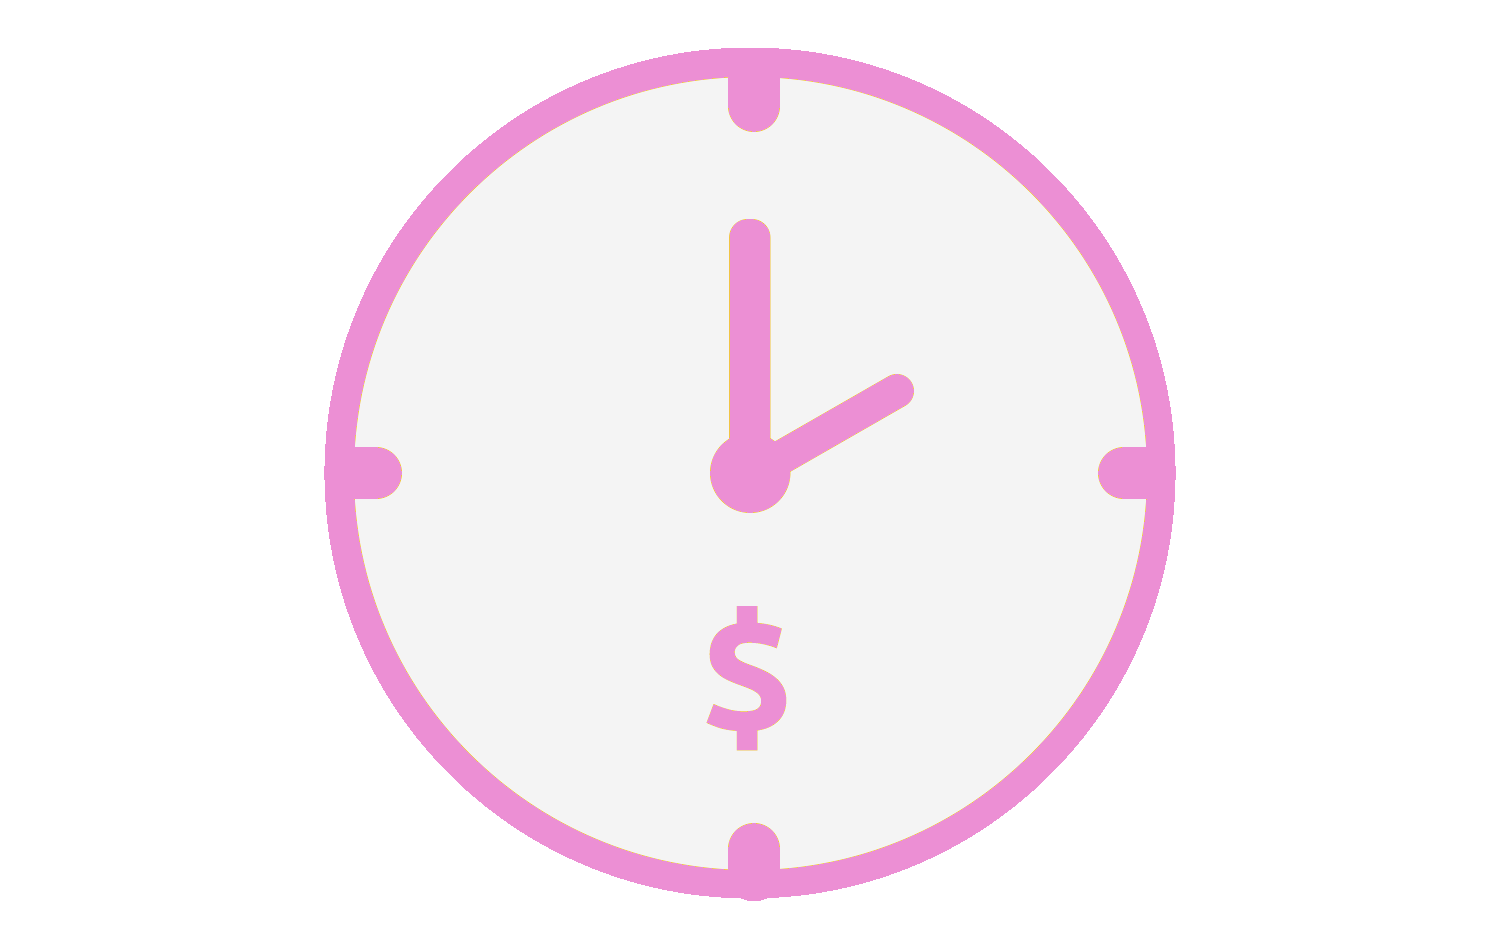
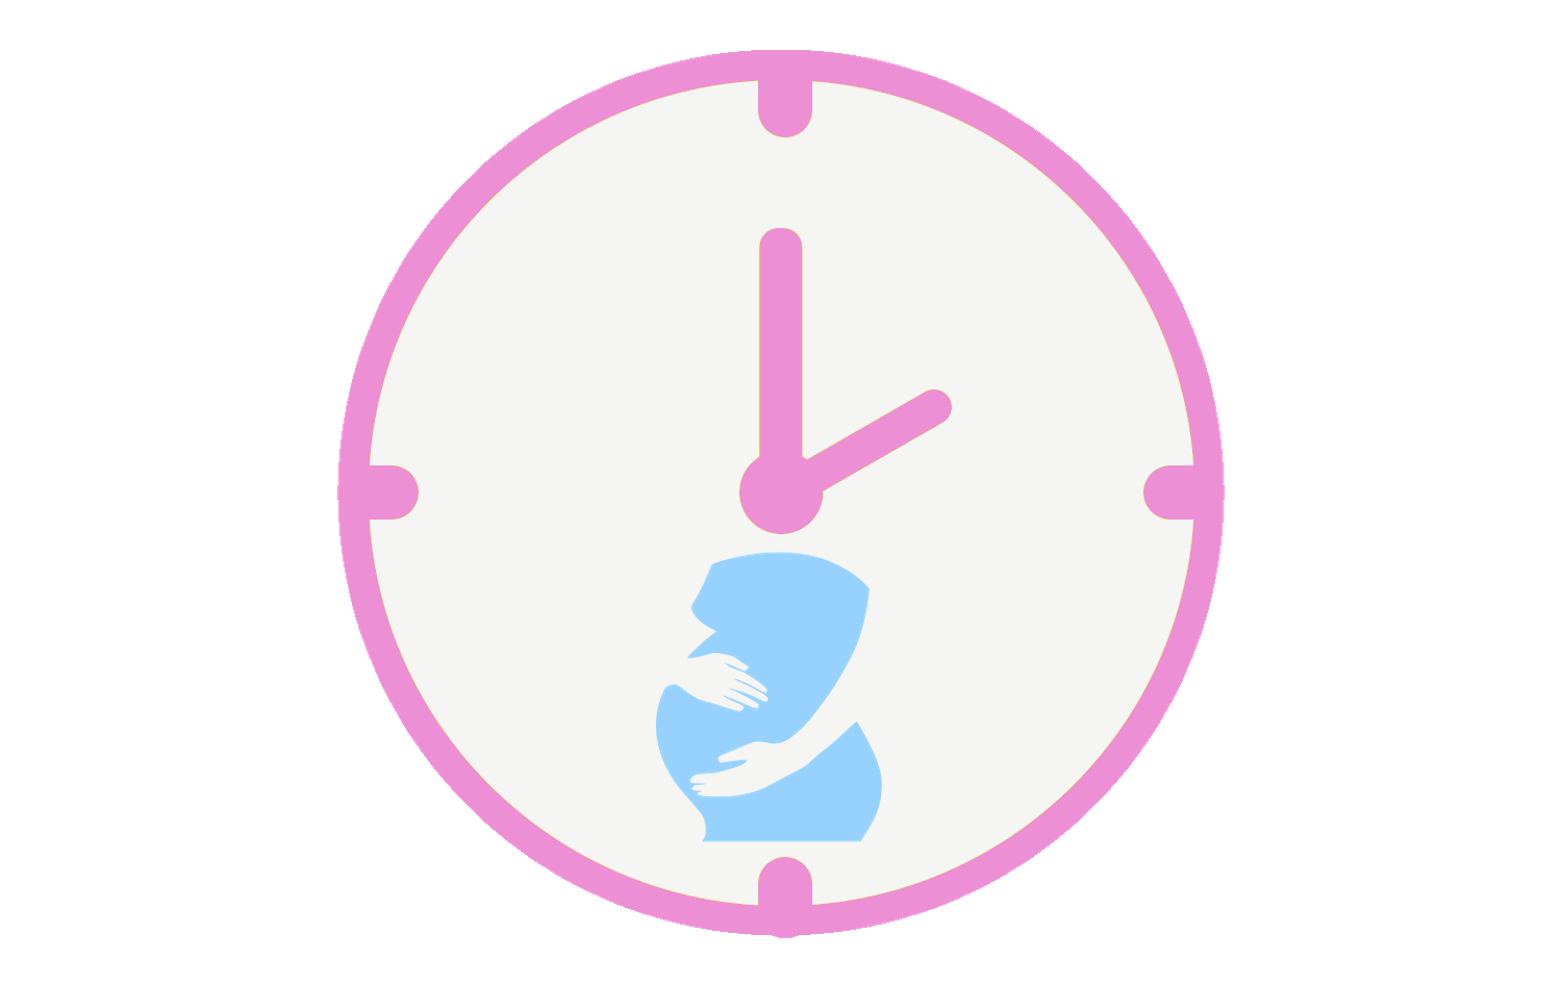
Created and update

Changed region(s): [[0.3987, 0.5518, 0.5827, 0.8584]]

diff --git a/index.html b/index.html
@@ -48,7 +48,7 @@
 							<a href="calcularIdadeGestacional.html" class="nav-link">Calcular Idade Gestacional</a>
 						</li>
 						<li class="nav-item">
-							<a href="#" class="nav-link">Benefícios</a>
+							<a href="controleGlicemico.html" class="nav-link">Controle Glicêmico</a>
 						</li>
 						<li class="nav-item">
 							<a href="#" class="btn btn-outline-light ml-4">Entrar</a>
@@ -105,12 +105,11 @@
 				</div>
 				<div class="col-md-6 d-flex">
 					<div class="align-self-center">
-						<h2>Pare de pagar Juros</h2>
+						<h2>Controle Glicêmico</h2>
 						<p>
-							Com o iMoney, você pode categorizar todos os seus lançamentos.
-							Com grafico simples, você sabe de onde vem e para onde vai o seu dinheiro
+							Durante a gestação, o controle glicêmico assume um papel crucial para a saúde da mãe e do bebê. Manter os níveis de glicose no sangue dentro dos parâmetros adequados é essencial para prevenir complicações associadas à diabetes gestacional.
 						</p>
-						<a href="" class="btn btn-primary">Veja Mais</a>
+						<a href="controleGlicemico.html" class="btn btn-primary">Calcular</a>
 					</div>
 				</div>
 			</div>
@@ -125,21 +124,23 @@
 					<img src="img/facil.png" class="img-fluid">
 					<h4>Fácil de Usar</h4>
 					<p>
-						O iMoney vai além do básico e permite que você faça controles incriveis, essenciais para suas finanças. Simples como tem que ser!
+						O Minha Gestação Meu Bebê oferece uma variedade de recursos para auxiliar nessa fase de forma fácil e descomplicada!
 					</p>
 				</div>
 				<div class="col-md-4">
 					<img src="img/economize.png" class="img-fluid">
 					<h4>Economize seu Tempo</h4>
 					<p>
-						O iMoney vai além do básico e permite que você faça controles incriveis, essenciais para suas finanças. Simples como tem que ser!
+						Economize tempo com o Minha Gestação Meu Bebê! Nossa plataforma oferece recursos que tornam tudo mais prático e eficiente para você acompanhar sua gestação e o desenvolvimento do seu bebê.
 					</p>
 				</div>
 				<div class="col-md-4">
 					<img src="img/suporte.png" class="img-fluid">
 					<h4>Suporte Amigo</h4>
 					<p>
-						O iMoney vai além do básico e permite que você faça controles incriveis, essenciais para suas finanças. Simples como tem que ser!
+						Suporte Amigo
+
+						Estamos em fase de construção e queremos oferecer a melhor experiência possível. Se tiver dúvidas sobre qualquer recurso, desejar fazer reclamações, reportar problemas ou enviar sugestões, fique à vontade para entrar em contato conosco por e-mail em leandrodepaula.ti@gmail.com. Sua opinião é muito importante para nós!
 					</p>
 				</div>
 			</div>

diff --git a/controleGlicemico.html b/controleGlicemico.html
@@ -45,10 +45,10 @@
 							<a href="index.html" class="nav-link">Home</a>
 						</li>
 						<li class="nav-item">
-							<a href="#" class="nav-link">Calcular Idade Gestacional</a>
+							<a href="/calcularIdadeGestacional.html" class="nav-link">Calcular Idade Gestacional</a>
 						</li>
 						<li class="nav-item">
-							<a href="controleGlicemico.html" class="nav-link">Controle Glicêmico</a>
+							<a href="#" class="nav-link">Controle Glicêmico</a>
 						</li>
 						<li class="nav-item">
 							<a href="#" class="btn btn-outline-light ml-4">Entrar</a>
@@ -66,14 +66,10 @@
 			<div class="row">
 				<div class="col-md-6 d-flex">
 					<div class="align-self-center">
-						<h2>Calcular Idade Gestacional</h2>
-						<form id="dumForm">
-							<div class="form-group">
-							  <label for="dumDate">Data da última menstruação (DUM)</label>
-							  <input type="date" class="form-control" id="dumDate" required>
-							</div>
-							<button type="button" class="btn btn-primary" onclick="calcularIdadeGestacional()">Calcular</button>
-						</form>
+						<h2>Controle Glicêmico</h2>
+						<div class="jumbotron">
+							<p class="display-4">Em construção</p>
+						</div>
 					</div>
 				</div>
 				<div class="col-md-6">
